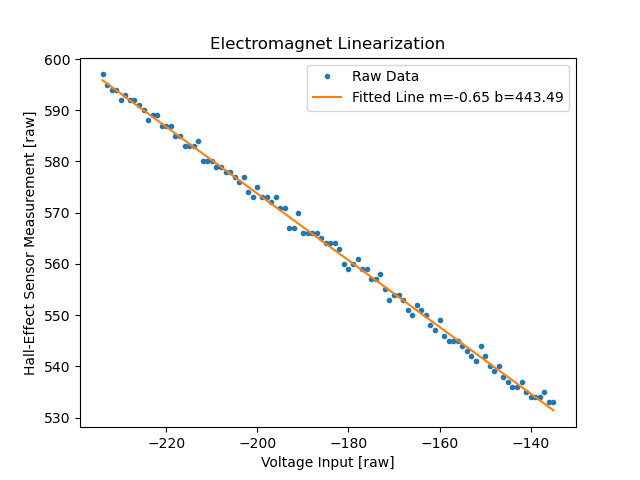
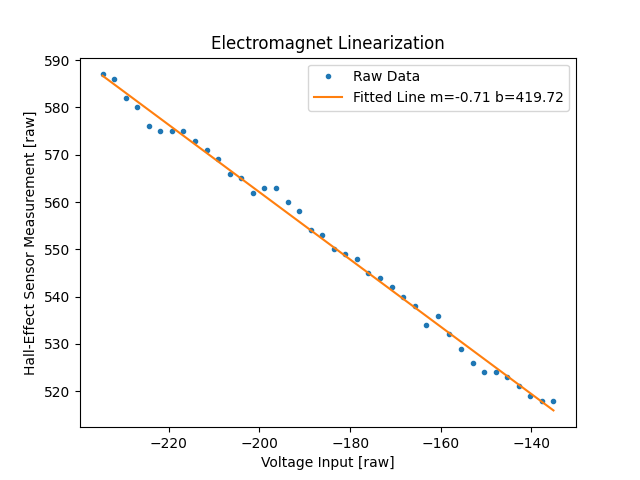
avr pwm library

diff --git a/sweep.py b/sweep.py
@@ -17,27 +17,27 @@ arduino.write((0).to_bytes(1, 'big'))
 arduino.write((254).to_bytes(1, 'big'))
 measurement = arduino.readline()
 time.sleep(3)
-
+# breakpoint()
 data = []
-for i in reversed(range(0, 255)):
+for i in reversed(range(0, 100)):
     # v = -12 * i/255
-    v = -i
-    arduino.write((0).to_bytes(1, 'big'))
+    v = -i / 100 * 255
+    # arduino.write((0).to_bytes(1, 'big'))
     arduino.write((i).to_bytes(1, 'big'))
     measurement = arduino.readline()
     print(f"{v:.2f} \t {measurement}")
     if measurement:
         data.append([v, int(measurement.strip())])
 
-for i in range(0, 255):
-    # v = 12 * i/255
-    v = i
-    arduino.write((i).to_bytes(1, 'big'))
-    arduino.write((0).to_bytes(1, 'big'))
-    measurement = arduino.readline()
-    print(f"{v:.2f} \t {measurement}")
-    if measurement:
-        data.append([v, int(measurement.strip())])
+# for i in range(0, 100):
+#     # v = 12 * i/255
+#     v = i
+#     arduino.write((i).to_bytes(1, 'big'))
+#     arduino.write((0).to_bytes(1, 'big'))
+#     measurement = arduino.readline()
+#     print(f"{v:.2f} \t {measurement}")
+#     if measurement:
+#         data.append([v, int(measurement.strip())])
 
 
 data = np.array(data)

diff --git a/line_fit.py b/line_fit.py
@@ -1,9 +1,9 @@
 import numpy as np
 import matplotlib.pyplot as plt
 
-sweep = np.load("data/teensy_sweep.npy")
-r_s = 20
-r_e = 120
+sweep = np.load("data/better_sweep.npy")
+r_s = int(20 * 100 / 255)
+r_e = int(120 * 100 / 255)
 coefficients = np.polyfit(sweep[r_s:r_e, 0], sweep[r_s:r_e, 1], 1)
 polynomial = np.poly1d(coefficients)
 print(coefficients)
